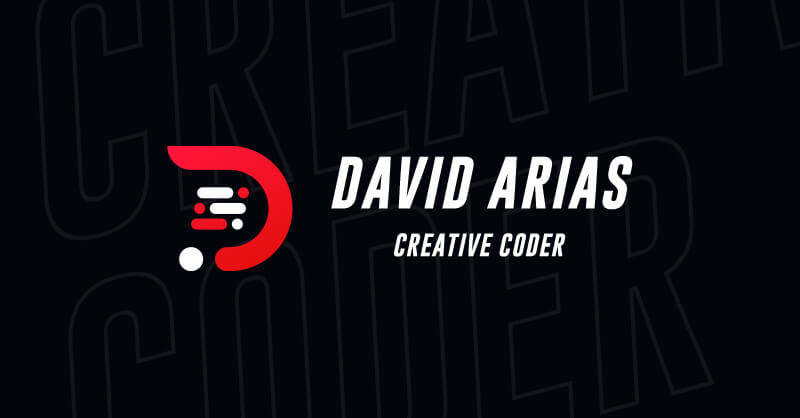
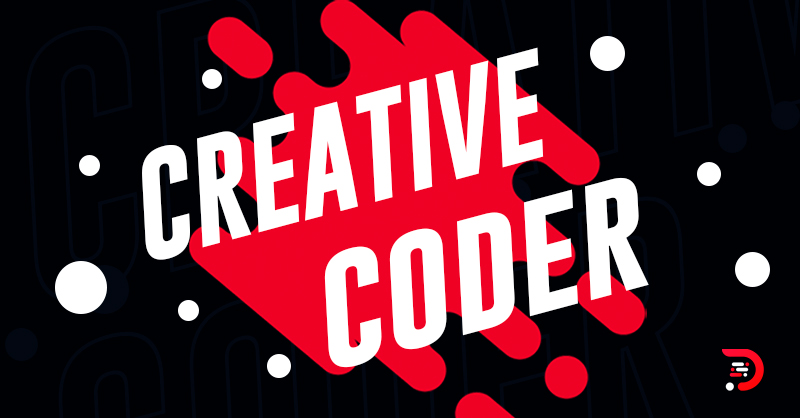
Project card updated

diff --git a/pages/index.js b/pages/index.js
@@ -11,6 +11,8 @@ import Contact from "../contents/index/Contact";
 
 //Context
 import { ViewportContextProvider } from "../context/ViewportContext";
+
+//TODO: Mejorar las cards de portada para twiter y og
 export default function Index() {
     return (
         <>
@@ -36,7 +38,7 @@ export default function Index() {
                 />
                 <meta
                     property="og:image"
-                    content={`${process.env.VERCEL_URL}/assets/cards/davidarias_card_web.png`}
+                    content="https://luisdavidarias.com/assets/cards/davidarias_card_web.jpg"
                 />
                 <meta name="twitter:title" content="David Arias - Creative Coder" />
                 <meta
@@ -48,7 +50,7 @@ export default function Index() {
                 <meta name="twitter:card" content="summary_large_image" />
                 <meta
                     name="twitter:image:src"
-                    content={`${process.env.VERCEL_URL}/assets/cards/davidarias_card_web.jpg`}
+                    content="https://luisdavidarias.com/assets/cards/davidarias_card_web.jpg"
                 />
                 <meta name="robots" content="INDEX,FOLLOW,ARCHIVE" />
             </Head>

diff --git a/contents/index/Projects/components/ProjectGrid/ProjectGrid.jsx b/contents/index/Projects/components/ProjectGrid/ProjectGrid.jsx
@@ -18,7 +18,6 @@ import { ProjectCard, ProjectCardSkeleton } from "../ProjectCard";
 import { lockScroll, unlockScroll } from "../../../../../utils/dom.js";
 
 //TODO: Revisar los handle y utilizar useCallback
-//TODO: Hacer carga progresiva de imágenes, es decir, solo cargar las miniaturas y cuando se amplíe se cargue en alta definición
 
 export const ProjectGrid = ({ rootRef, projects }) => {
     const [isDragging, setIsDragging] = useState(false);

diff --git a/contents/index/Home/Home.jsx b/contents/index/Home/Home.jsx
@@ -7,7 +7,6 @@ import Portrait from "./components/Portrait";
 import Shape from "./components/Shape";
 import LanguageToggler from "../../../components/LanguageToggler";
 
-//TODO: Probar con useTranslation
 //TODO: Al ingresar con una url, el navegador no viaja hasta el id
 const Home = ({ id, t }) => {
     const ref = useRef();
